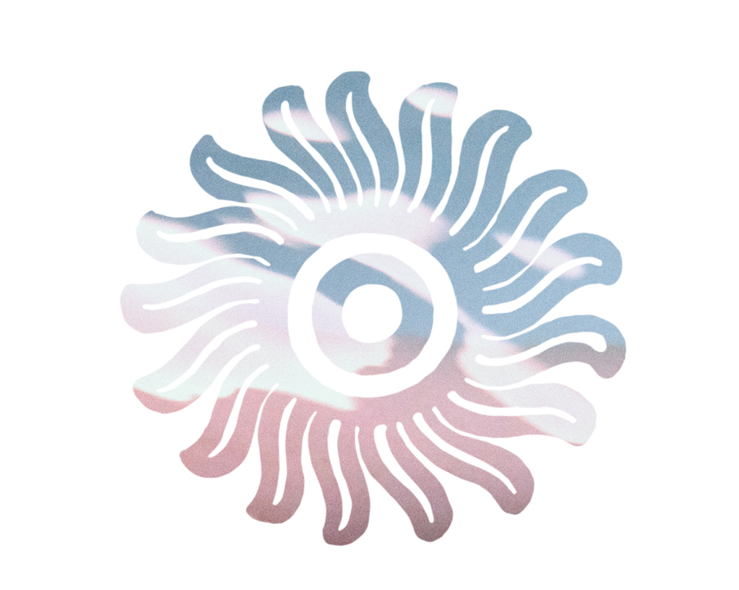
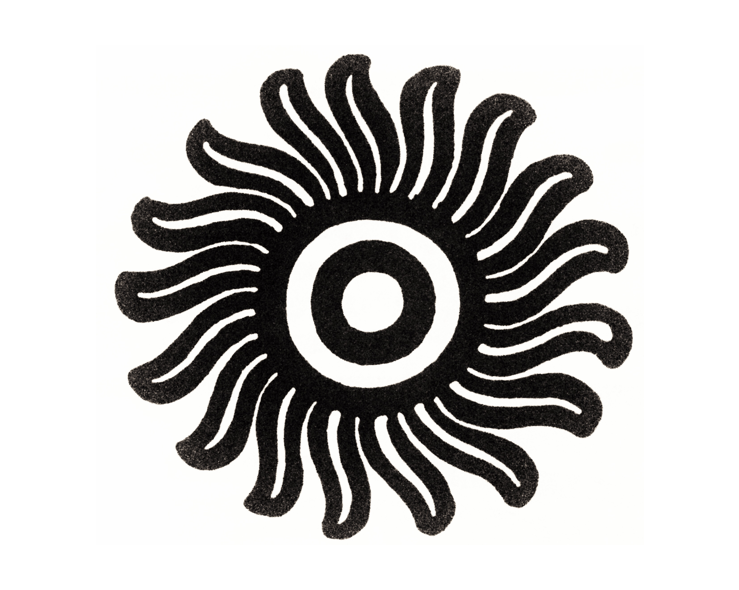
On radiance 008

diff --git a/No./008.html b/No./008.html
@@ -1,0 +1,212 @@
+<!DOCTYPE html>
+<html>
+
+<head>
+    <!--
+    __________      _____                   ______
+    ___  ____/___  ___  /____  ________________  /____________  __
+    __  /_   _  / / /  __/  / / /_  ___/  _ \_  __ \  __ \_  / / /
+    _  __/   / /_/ // /_ / /_/ /_  /   /  __/  /_/ / /_/ /  /_/ /
+    /_/      \__,_/ \__/ \__,_/ /_/    \___//_.___/\____/_\__, /
+                                                         /____/
+    -->
+    <meta charset="utf-8">
+    <meta name="viewport" content="width=device-width initial-scale = 1.0 maximum-scale=1.0 user-scalable=no" />
+    <meta name="apple-mobile-web-app-capable" content="yes" />
+    <title>No. 008</title>
+    <!-- Hotjar Tracking Code for www.maat.space -->
+    <script>
+        (function(h,o,t,j,a,r){
+            h.hj=h.hj||function(){(h.hj.q=h.hj.q||[]).push(arguments)};
+            h._hjSettings={hjid:481929,hjsv:5};
+            a=o.getElementsByTagName('head')[0];
+            r=o.createElement('script');r.async=1;
+            r.src=t+h._hjSettings.hjid+j+h._hjSettings.hjsv;
+            a.appendChild(r);
+        })(window,document,'//static.hotjar.com/c/hotjar-','.js?sv=');
+    </script>
+    <link rel="stylesheet" href="../css/normalize.css">
+    <link rel="stylesheet" href="../css/issues.css">
+    <link rel="stylesheet" href="../css/fonts.css">
+</head>
+
+<body>
+
+
+
+
+
+    <div class="articleIMG">
+      <div class="articleImgPlacementLESS750PX">
+        <img src="../img/008thb.png" alt="">
+        <span class="imgSubtitle">Flower by Gregory</span>
+      </div>
+
+    </div>
+
+      <div class="articleData">
+        <div class="articleDataPlacement">
+          <div class="postCategories">
+            <span class="rainbow">Weekly Dose No. 008 // August 14th</span>
+          </div>
+          <div class="postTitle"><h1>On Radiance</h1></a>
+          </div>
+          <div class="text">
+            <p>This is a weekly curation of what we've seen in life and thought was meaningful. <span class="Sacha">Sacha</span>, and <span class="Gregory">Gregory</span> are behind this week's edition :)</p>
+            <p>Sacha writes about experiencing radiance as its own reward while Gregory talks about peeling off the onion layers covering up your spirit. Also, we’ve added some golden nuggets & a must-watch documentary.</p>
+            <p>If your friend brought you here, you can learn more about the project and officially subscribe at:</p>
+
+            <p><a class="subscribeLink" href="http://weeklydose.human.space">weeklydose.human.space</a></p>
+
+            <br>
+            <p class="border"></p>
+            <br>
+
+
+            <h3>The dictionary definition: Radiance</h3>
+            <p>Light or heat as emitted or reflected by something. Great joy or love, apparent in someone's expression or bearing. A glowing quality of the skin, especially as indicative of good health or youth.</p>
+            <h3>The objective:</h3>
+            <p>Remove ego layers to allow our spirit to breath, radiate & shine through.</p>
+
+            <br>
+
+            <h3>Pursuing Radiance</h3>
+
+            <p><span class="Sacha">Sacha</span>– The Mystery of Radiance</p>
+            <p>You might be more acquainted with radiance than you think. The English languages is full of references to it:</p>
+            <p>“It’s your time to shine” <br>
+                “She’s glowing” <br>
+                “He’s beaming with pride” <br>
+                “She exudes/radiates confidence” <br>
+                “He’s brilliant” <br>
+                “She’s a star” <br>
+                “He lights up the room”
+            </p>
+            <p>Depictions of yogis, prophets & saints show them surrounded by light. Steve Jobs had such a noticeable presence that his employees called it a reality-distortion-field. We say of great leaders that they had an aura of power.</p>
+            <p>What’s going on here? Could it be that just as we perceive up light & sound from a person, we can perceive emanations from their inner nature? I think so. It doesn’t seem like a stretch to suppose we’re energetically attuned to the inner states of those who surround us. After all, we’re hard-wired social creatures.</p>
+            <p>Now, is this just body language we’re picking up? Are we merely creating visual & energetic metaphors to explain macro/micro level body language cues from people? Or is this a real emanation of energy we’re picking up — like tuning in to an energetic field? We’ll leave that question for another time.</p>
+            <p><u>The Darkside Of Forced Radiance</u></p>
+            <p>"If a tree falls in a forest and nobody's around to hear it, does it make a sound?" In a recent twist on this idea — the skateboarding community has an expression: “without footy, it’s fiction”. That loosely translates to “if it hasn’t been filmed, it didn’t happen”. </p>
+            <p>Seem innocuous? There’s actually a monster hiding in this closet.</p>
+            <p>One of the biggest issues facing us today is that we take outward signs to be more important than the inner substance. We take the footage to be more important than the experience itself.</p>
+            <p>Social media newsfeeds, similarly, are chalk full poorly veiled self-aggrandizement. Any beautiful moment now seems embedded with the imperative to document & share.</p>
+            <p>Slowly, the value of the event starts to depend on its appraisal in the eyes of the witnesses. We attach our self-worth to our outward appearance. In response, people have gotten extremely good at simulating outward signs, at the expense of the real shit. “Looking like” becomes more important than being. Believe me, I know. For years I lost sight of myself. Like so many others, I became fixated on the simulacrum to the point of losing the original.</p>
+            <p>This is not radiance. This is forced radiance. Simulated radiance. Which is truly a tragedy, because it misses the point or radiance entirely.</p>
+            <p>You see the point of radiance… is the experience of radiance. It requires no witness. Radiance is its own reward.</p>
+            <p>So why do we fake radiance? Why do we want to be witnessed? To be praised as stars? Why the perverse attachment — not to the inner experience of shining — but to outward appearance?</p>
+            <p>Because, deep down, we think that without footy, it’s fiction…</p>
+            <p>Every like says “you are loved”.<br>Every mention says “you exist”.<br>Every share says “you belong”.</p>
+            <p>How has that been working out for you? It’s been pretty shitty for me. Every time we enjoy one of these shallow dopamine bursts, we invest ourselves more deeply into matters of surface.</p>
+            <p>Fuck. That.</p>
+            <p><u>True Radiance</u></p>
+            <p>I can tell you very little on radiance. I’m just learning to experience its truth myself. What I can tell you from the progress I’ve made so far, is that it’s all about letting go. Letting go of the images which dictate how you should be. Letting down the walls which defend your ego. Divesting from the approval of others. Following your inner truth for its own sake. </p>
+            <p>Simply being.</p>
+            <p>Doing without forcing. Without expectations on the outcome. Let your inner voice guide you, and you’ll become one with it.</p>
+            <p>I leave you with this 24th verse of eternal wisdom from the Tao Te Ching — supreme teachings which provided the bedrock for Buddhism:</p>
+            <p>
+                <i>He who stands on tiptoe</i> <br>
+                <i>doesn't stand firm.</i> <br>
+                <i>He who rushes ahead</i> <br>
+                <i>doesn't go far.</i> <br>
+                <i>He who tries to shine</i> <br>
+                <i>dims his own light.</i> <br>
+                <i>He who defines himself</i> <br>
+                <i>can't know who he really is.</i> <br>
+                <i>He who has power over others</i> <br>
+                <i>can't empower himself.</i> <br>
+                <i>He who clings to his work</i> <br>
+                <i>will create nothing that endures.</i>
+            </p>
+
+            <p>
+                <i>If you want to accord with the Tao,</i> <br>
+                <i>just do your job, then let go.</i>
+            </p>
+
+            <p>— Shine on you crazy diamonds. Shine on.</p>
+
+
+            <p><span class="Gregory">Gregory</span> – Radiance... finding your light... being a lighthouse... After watching this talk, my wish is that you take the seed of radiance, run with it, & make it yours.</p>
+
+            <div class="youtubeVideo">
+                <iframe src="https://www.youtube.com/embed/MImxaq0Is40" frameborder="0" allowfullscreen></iframe>
+            </div>
+
+            <br>
+
+            <h3>Thoughtful Discoveries</h3>
+
+            <p><span class="Gregory">Gregory</span> – If you have 1 thing to watch this week, this short documentary must take the winning spot.</p>
+            <p>Made in 1978 after going through a life changing LSD experience with her husband, Dorothy nails it down & brings Radiance home. Make yourself tea, & let go.</p>
+            <div class="vimeoVideo">
+                <iframe src="https://player.vimeo.com/video/25060880" frameborder="0" webkitallowfullscreen mozallowfullscreen allowfullscreen></iframe>
+            </div>
+            <br>
+            <p><span class="Sacha">Sacha</span> - A beautiful soundbite by Alan Watts, accompanied by musical breaths from atmospheric rock band HAELOS.</p>
+
+            <div class="spotifyInTextPlacement">
+                <div class="spotifyInText">
+                    <iframe src="https://open.spotify.com/embed/track/30p7VKzGMfX9TozycHU2t7" frameborder="0" allowtransparency="true"></iframe>
+                </div>
+            </div>
+
+            <p>Here's the quote they used in the track:</p>
+            <p>“We know that from time to time, there arise among human beings people who seem to exude love as naturally as the sun gives out heat. These people, usually of enormous creative power, are the envy of us all, and, by and large, man’s religions are attempts to cultivate that same power in ordinary people.” — Alan Watts</p>
+            <p>To complete Alan’s thought, I’d say that you don’t need the dogma of religion to attain inner radiance. A word of caution, however: spiritual traditions contain great teachings. Don’t let your own dogma be a barrier to them, as I have in the past.</p>
+
+            <br>
+
+            <h3>Sacha's Book Recommendation</h3>
+            <div class="imgInTextLong">
+                <div class="imgInTextLongPlacement">
+                    <a href="https://www.goodreads.com/book/show/20173569"><img src="../img/editions/008/taoAudio.png" alt=""></a>
+                </div>
+            </div>
+            <p><b>Book:</b> Tao Te Ching <br> <b>Author:</b> Lao Tzu <br> <b>Translator:</b> Stephen Mitchell<p>
+            <p>Upon my first listen to this book, in audio format, I fell into a profound bliss. I experienced the most absolute feeling of inner peace in my short life thus far. The teachings have a serene truth to them. With mystical tenderness, it seems to gently draw out the darkness from your soul and fill you with truth.</p>
+            <p>If haven’t yet encountered the <i>The Book Of The Way</i>, then it is my honour to bestow this gift upon you. To live in harmony with these 81 verses is to experience true radiance.</p>
+            <p>Though many of the verses remain a mystery to me, I sense that I’ll awaken to their truth once I’m ready. Of those that I understand, not one is uncherished.</p>
+
+            <br>
+
+            <h3>Track of the Week</h3>
+            <p>Back in March, part of the crew went out to see Octave One at a rave. These guys totally incarnate radiance when they play & they allowed us to fly through the night feeling like champions.</p>
+            <p>We'd love to share that feeling with you so here's the deal: Close your eyes. Let your heart unclench. Start dancing. Be.</p>
+            <p>Let yourself be swept into the tide of being. </p>
+            <div class="youtubeVideo">
+                <iframe src="https://www.youtube.com/embed/Bmg_DtZ0Scw" frameborder="0" allowfullscreen></iframe>
+            </div>
+
+
+            <br>
+            <p class="border"></p>
+            <br>
+
+            <p>Alright! That's it for this edition of the Weekly Dose. Let’s close with the ancient wisdom of the Hindu Yajurvada scriptures: </p>
+
+            <br>
+
+            <h3>Attractiveness & magnetism of a man's personality are the result of his inner radiance.</h3>
+
+            <br>
+
+            <p>Lastly, don't forget to help one (or five!) of your best friends who are also on the path to become their best selves. Send them this weekly dose, they'll be glad you did!</p>
+            <p>Have a wonderful evening,</p>
+            <p><span class="Gregory">Gregory</span> & <span class="Sacha">Sacha</span></p>
+
+            <br>
+
+            <div class="logo1024">
+              <a href="../index.html"><h1>Check out our past editions</h1></a>
+            </div>
+
+            <br>
+
+          </div>
+        </div>
+      </div>
+
+
+</body>
+
+</html>

diff --git a/index.html b/index.html
@@ -69,6 +69,71 @@
             <div class="article">
 
                 <div class="postIMG">
+                    <div class="imgWIDER750PX">
+                        <a href="No./007.html"><img src="img/008thb.png" alt=""></a>
+
+
+                        <div class="upper1024">
+                            <div class="overlayPlacement">
+
+
+                                <a href="No./008.html" class="superAnchor">
+                                    <div class="anchorPLACEMENT">
+                                        <div class="articleTITLE">
+                                            <div class="articleTitlePLACEMENT">
+                                                <h1>On Radiance</h1>
+                                            </div>
+                                        </div>
+                                        <!-- <div class="articleCATEGORIES">
+                                            <div class="articleCategoriesPLACEMENT">
+                                                <span>Exploration &nbsp&nbsp • &nbsp&nbsp Consciousness &nbsp&nbsp • &nbsp&nbsp Philippe</span>
+                                            </div>
+                                        </div> -->
+                                        <div class="articleSUMMARY">
+                                            <div class="articleSummaryPLACEMENT">
+                                                <h4>No. 008</h4>
+                                            </div>
+                                        </div>
+                                        <!-- <div class="readMORE">
+                                            <span>Watch</span>
+                                        </div> -->
+                                    </div>
+                                </a>
+
+
+                            </div>
+                        </div>
+                    </div>
+                </div>
+
+                <div class="lower1024">
+                    <div class="postData">
+                        <div class="postTitle">
+                            <a href="No./008.html"><h1>On Radiance</h1></a>
+                        </div>
+                        <div class="post">
+                            <!-- <div class="postCategories">
+                                <span>Exploration</a>&nbsp&nbsp • &nbsp&nbspConsciousness&nbsp&nbsp • &nbsp&nbspPhilippe</span>
+                            </div> -->
+                            <div class="postSummary">
+                                <div class="postSummaryFlex">
+                                    <h4>No. 008</h4>
+                                </div>
+                            </div>
+                            <!-- <div class="postReadBtn">
+                                <a href="content.html">Watch</a>
+                            </div> -->
+                        </div>
+                    </div>
+                </div>
+
+            </div>
+
+            <!-- REST OF FEED GOES HERE -->
+
+            <div class="article">
+
+                <div class="postIMG">
                     <div class="imgLESS750PX">
                         <a href="No./007.html"><img src="img/007thb.png" alt=""></a>
 
@@ -109,7 +174,7 @@
                 <div class="lower1024">
                     <div class="postData">
                         <div class="postTitle">
-                            <a href="No./006.html"><h1>Third Eye</h1></a>
+                            <a href="No./007.html"><h1>Third Eye</h1></a>
                         </div>
                         <div class="post">
                             <!-- <div class="postCategories">
@@ -128,8 +193,6 @@
                 </div>
 
             </div>
-
-            <!-- REST OF FEED GOES HERE -->
 
             <div class="article">
 

diff --git a/css/issues.css b/css/issues.css
@@ -243,7 +243,19 @@ a:hover, a:active, a:focus {
 .soundcloudInTextPlacement{
 	display: flex;
 	justify-content: center;
-	
+}
+
+.spotifyInText {
+	margin: 50px 0;
+}
+
+.spotifyInText iframe {
+	height: 90px;
+}
+
+.spotifyInTextPlacement{
+	display: flex;
+	justify-content: center;
 }
 
 .trackName {
